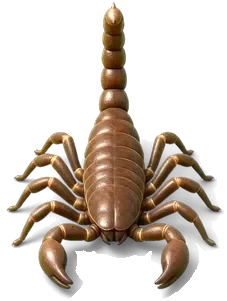
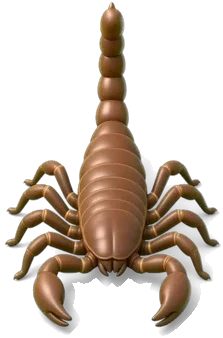
v11: smoother, cleaner toy-like scorpions (less detail, softer hues, simpler legs, no eyes)

Changed region(s): [[0.0269, 0.0, 0.9955, 1.0]]

diff --git a/index.html b/index.html
@@ -7,7 +7,7 @@
 <meta name="mobile-web-app-capable" content="yes">
 <meta name="theme-color" content="#c98b4a">
 <title>Sandline Siege</title>
-<link rel="stylesheet" href="style.css?v=10">
+<link rel="stylesheet" href="style.css?v=11">
 </head>
 <body>
 <div id="wrap"><canvas id="game"></canvas></div>
@@ -20,9 +20,9 @@
   </div>
 </div>
 
-<script src="game.js?v=10"></script>
-<script src="audio.js?v=10"></script>
-<script src="art.js?v=10"></script>
-<script src="main.js?v=10"></script>
+<script src="game.js?v=11"></script>
+<script src="audio.js?v=11"></script>
+<script src="art.js?v=11"></script>
+<script src="main.js?v=11"></script>
 </body>
 </html>

diff --git a/art.js b/art.js
@@ -18,7 +18,7 @@
   const fmt = (n) => (n >= 1e6 ? (n / 1e6).toFixed(n >= 1e7 ? 1 : 2) + 'M' : n >= 1e4 ? (n / 1e3).toFixed(n >= 1e5 ? 0 : 1) + 'K' : String(Math.round(n)));
 
   // ================= RASTER SPRITES (assets/*.webp) with procedural fallback =================
-  const ASSET_V = 10;
+  const ASSET_V = 11;
   const ASSETS = [...Array.from({ length: 12 }, (_, i) => 'cannon' + String(i + 1).padStart(2, '0')),
     'crawler', 'giant', 'queen', 'hatchling', 'eggs', 'orb', 'item_spray', 'item_fire', 'item_super', 'barricade', 'barricade_broken', 'bg', 'tile'];
   const IMG = {};
